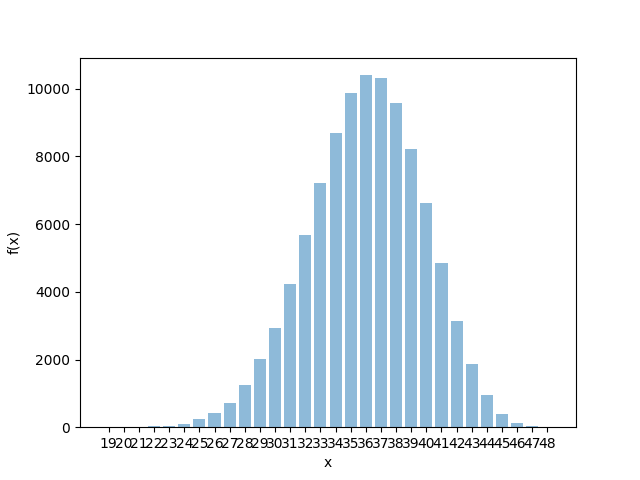
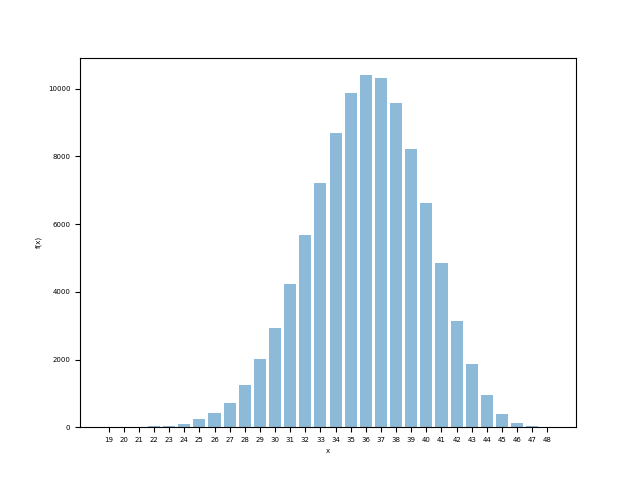
modify histogram font size

diff --git a/Histogram.py b/Histogram.py
@@ -10,6 +10,9 @@ import sys
 # Read in the csv file
 data = np.genfromtxt(sys.argv[1], delimiter=',')
 
+# Set font size
+plt.rcParams.update({'font.size': 5})
+
 # Plot the bar chart
 plt.bar(data[:,0], data[:,1], align='center', alpha=0.5)
 plt.xlabel('x')
